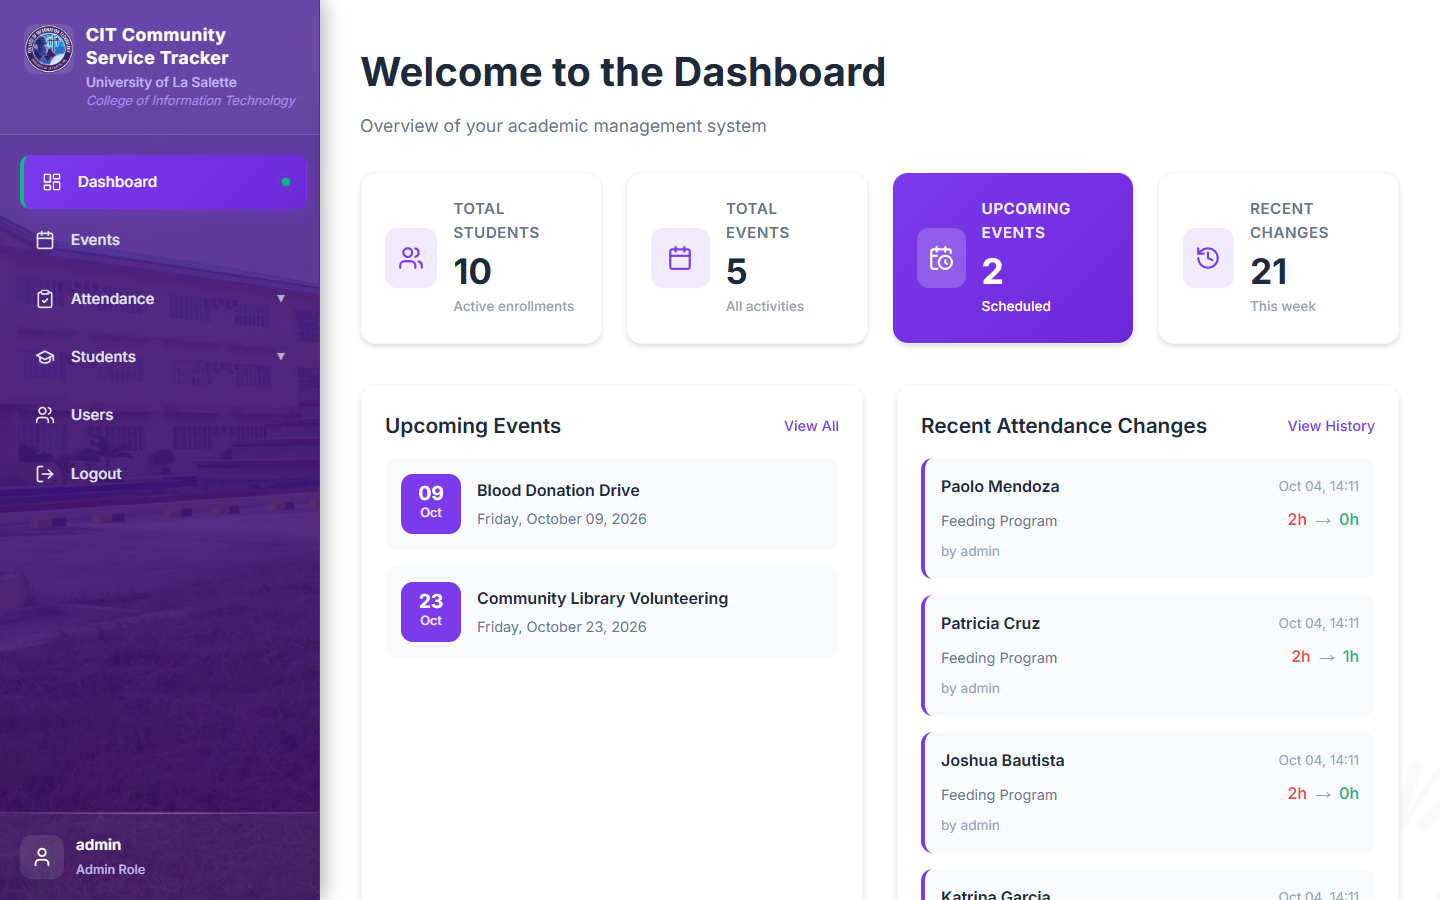
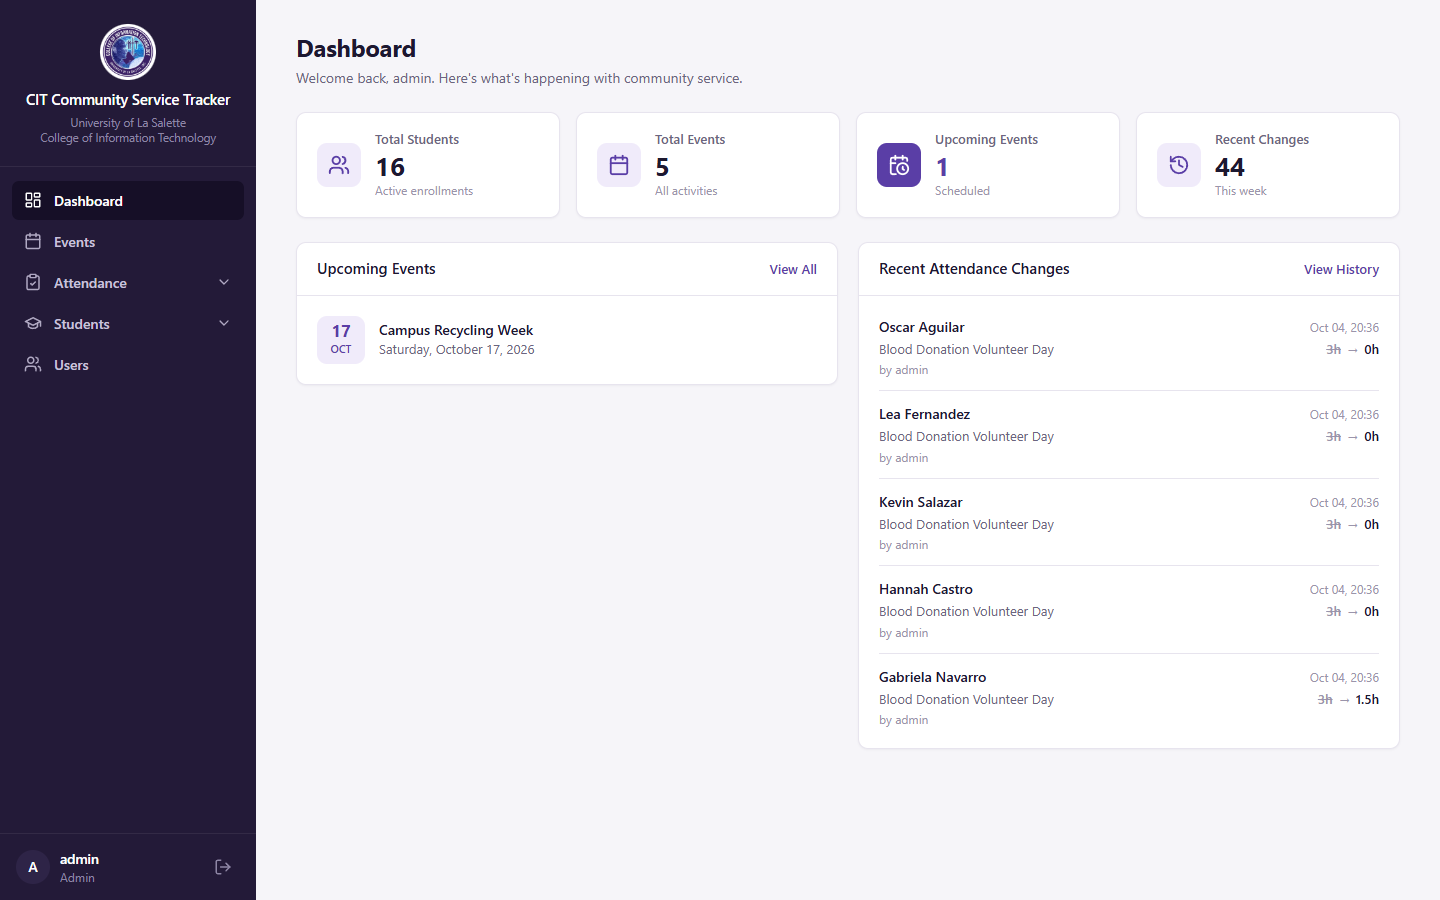
Release v0.2.0: new screenshots, version bump

diff --git a/README.md b/README.md
@@ -5,7 +5,7 @@
 <h1 align="center">CIT Community Service Tracker</h1>
 
 <p align="center">
-  <img src="https://img.shields.io/badge/version-0.1.3-8038C5?style=flat-square" alt="version">
+  <img src="https://img.shields.io/badge/version-0.2.0-8038C5?style=flat-square" alt="version">
   <img src="https://img.shields.io/badge/status-stable-2772BD?style=flat-square" alt="status">
   <img src="https://img.shields.io/badge/python-3.12%2B-2B9580?style=flat-square&logo=python&logoColor=white" alt="python">
   <img src="https://img.shields.io/badge/Flask-2.3-E59A18?style=flat-square&logo=flask&logoColor=white" alt="Flask">
@@ -22,7 +22,22 @@
 
 The CIT Community Service Tracker is a Flask web app for the University of La Salette College of Information Technology. Officers record which students signed in and out of community service events, and the app tracks the service hours each student still owes per semester.
 
-> **Current version: v0.1.3** — Server-Side Access Control, Safe Attendance Saving, Live Hour Totals, Event/Attendance Sync & Cleaner UI. See the [Release Notes](https://github.com/nncast/flask-community-service-tracker/releases) for the full version history.
+> **Current version: v0.2.0** — Redesigned interface (calmer sidebar, aligned attendance table with pinned headers, consistent pages, phone layout) and uv for setup. See the [Release Notes](https://github.com/nncast/flask-community-service-tracker/releases) for the full version history.
+
+<p align="center">
+  <img src="docs/screenshots/dashboard.png" width="49%" alt="Dashboard: students, events, upcoming events and recent attendance changes">
+  <img src="docs/screenshots/attendance-dashboard.png" width="49%" alt="Attendance Dashboard: every student and event for a semester, with live hour totals">
+</p>
+<p align="center">
+  <img src="docs/screenshots/events.png" width="49%" alt="Events: create events for specific year levels, grouped by academic year and semester">
+  <img src="docs/screenshots/event-attendance.png" width="49%" alt="Event Attendance: sign students in and out; hours owed update as you tick">
+</p>
+<p align="center">
+  <img src="docs/screenshots/students.png" width="49%" alt="Students: records per year level, with promotion to the next year">
+  <img src="docs/screenshots/attendance-history.png" width="49%" alt="Attendance History: every hours change, who made it and why">
+</p>
+
+<p align="center"><sub>Dashboard · Attendance Dashboard · Events · Event Attendance · Students · Attendance History</sub></p>
 
 ## How hours work
 
